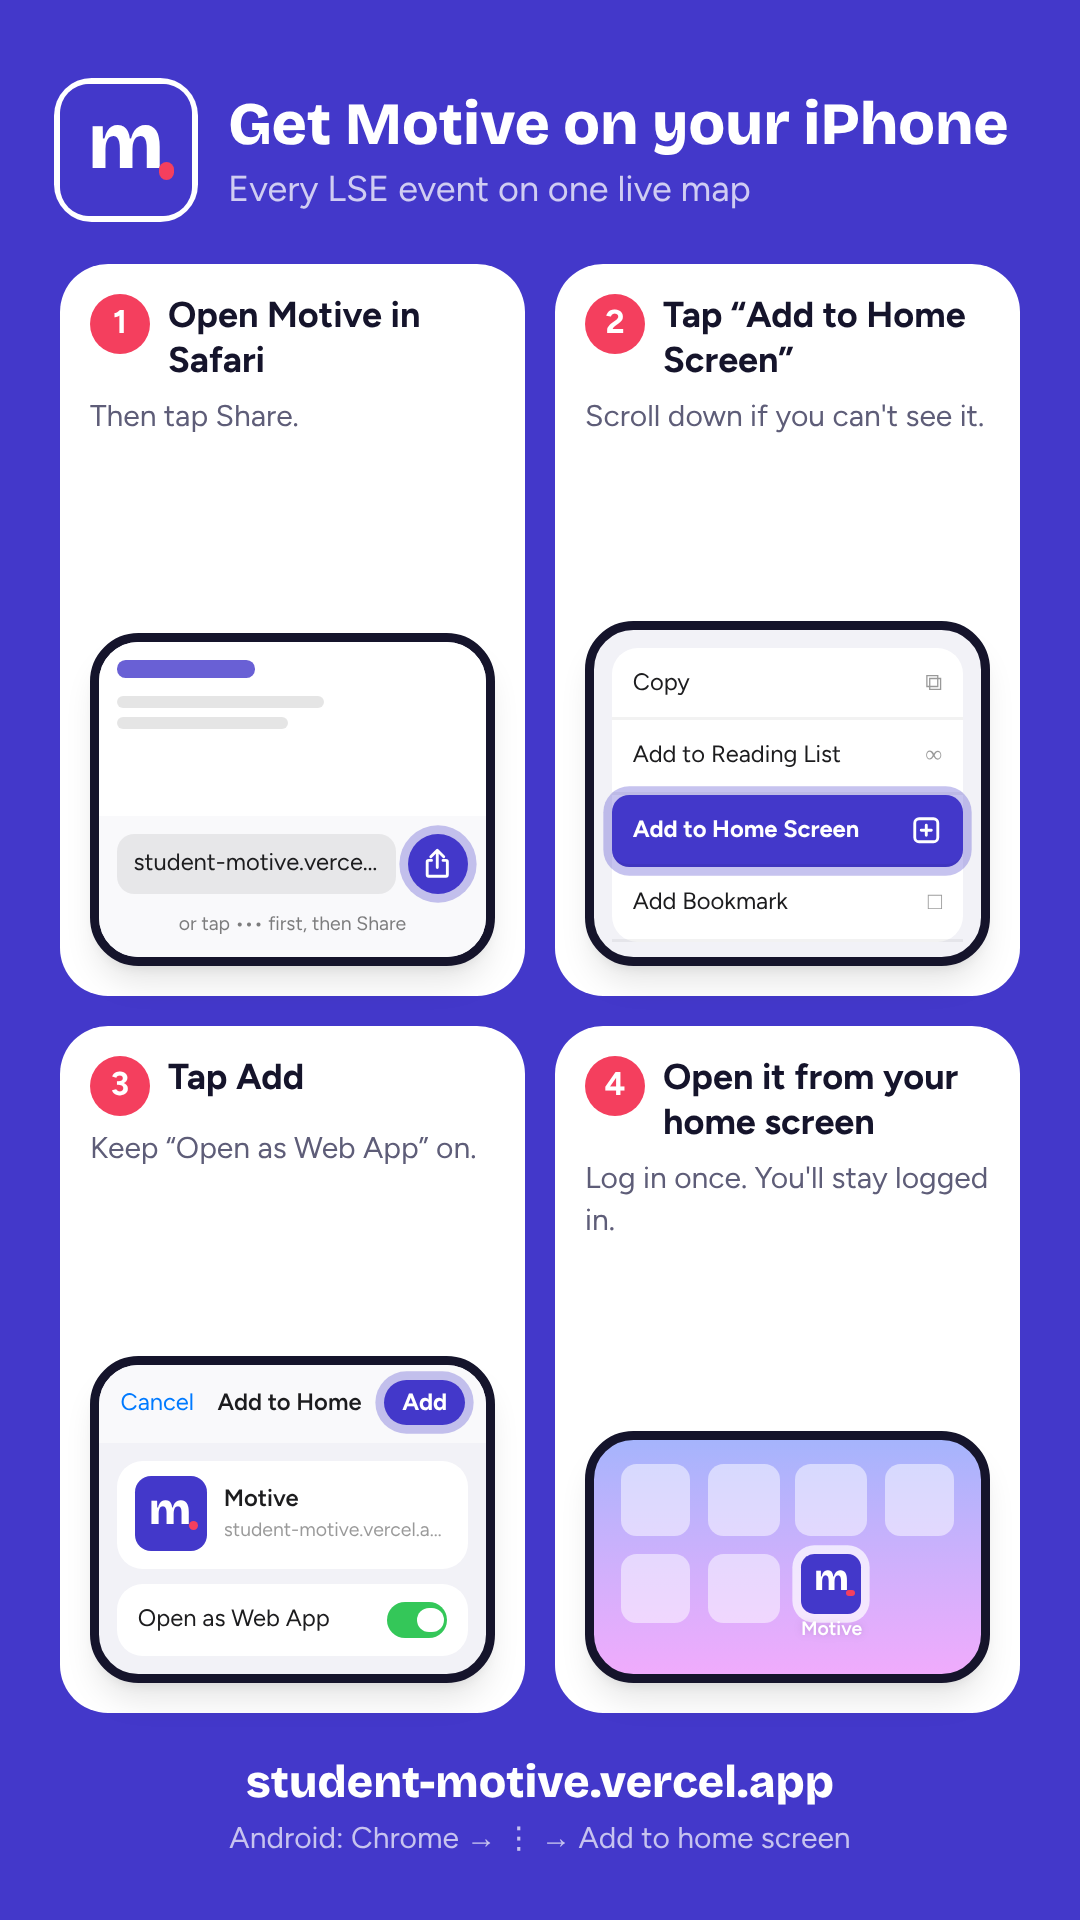
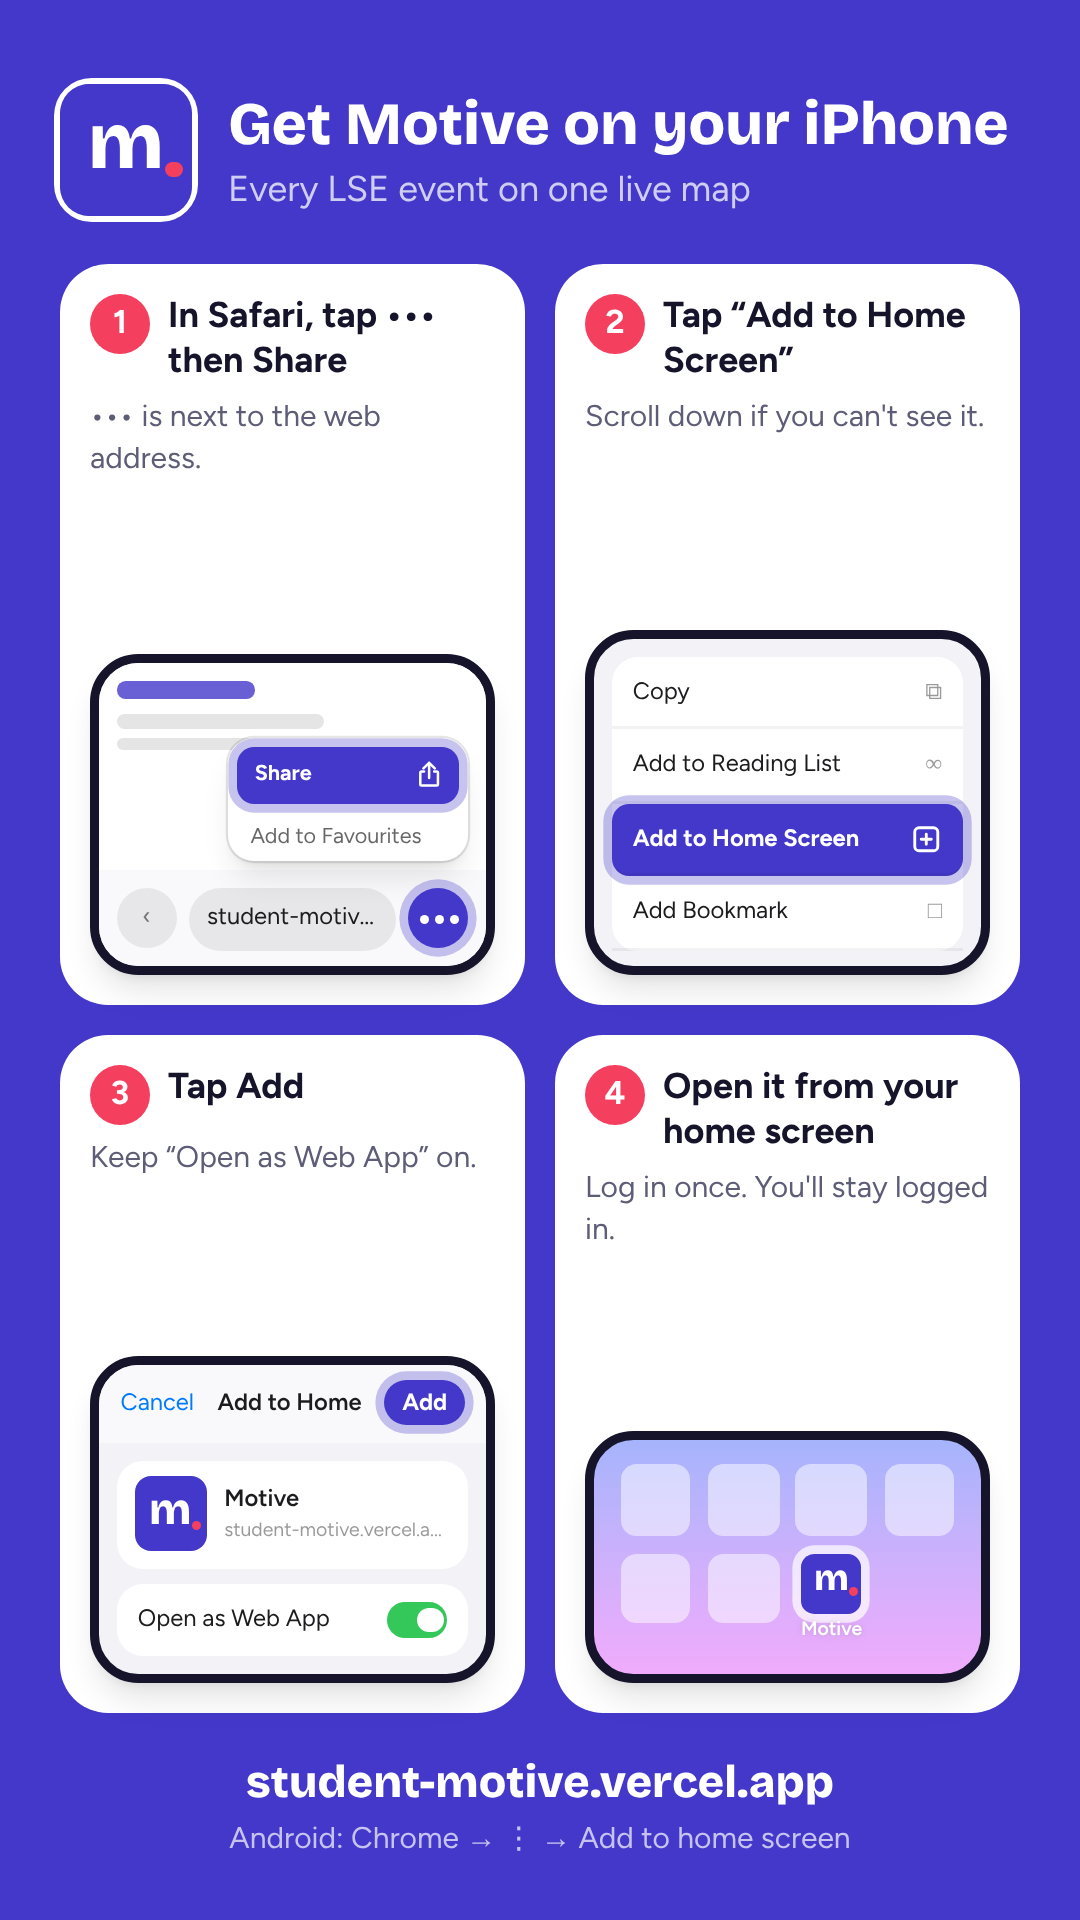
Install steps: on iPhone, tap ••• then Share (Safari's layout since iOS 26)
Claude-Session: https://claude.ai/code/session_01UPPr3xYWKh4pSKrCPw6HSW

diff --git a/web/src/app/install/illustrations.tsx b/web/src/app/install/illustrations.tsx
@@ -62,19 +62,27 @@ export function MotiveTile({ size = 44 }: { size?: number }) {
 
 // ---------- iPhone (Safari) ----------
 
+// Safari since iOS 26: the Share button is inside the ••• menu next to the address.
 export function IphoneSafari() {
   return (
     <Screen>
-      <div className="h-20 bg-white p-2">
+      <div className="relative h-24 bg-white p-2">
         <div className="h-2 w-16 rounded bg-[#4338ca]/80" />
         <div className="mt-2 h-1.5 w-24 rounded bg-black/10" />
         <div className="mt-1 h-1.5 w-20 rounded bg-black/10" />
+        {/* The menu that opens from ••• */}
+        <div className="absolute right-2 bottom-1 w-[62%] overflow-hidden rounded-xl bg-white text-[10px] shadow-lg ring-1 ring-black/10">
+          <div className="m-1 flex items-center justify-between rounded-lg bg-brand px-2 py-1.5 font-bold text-white ring-4 ring-brand/30">
+            Share <ShareIcon className="size-3.5" />
+          </div>
+          <div className="px-2.5 py-1 text-black/60">Add to Favourites</div>
+        </div>
       </div>
       <div className="flex items-center gap-1.5 bg-[#f9f9fb] px-2 py-2">
-        <span className="flex-1 truncate rounded-lg bg-black/[0.07] px-2 py-1.5 text-center">{MOTIVE_URL}</span>
-        <Tap className="size-7"><ShareIcon className="size-4" /></Tap>
+        <span className="grid size-7 place-items-center rounded-full bg-black/[0.07] text-black/50">‹</span>
+        <span className="flex-1 truncate rounded-full bg-black/[0.07] px-2 py-1.5 text-center">{MOTIVE_URL}</span>
+        <Tap className="size-7"><Dots /></Tap>
       </div>
-      <p className="bg-[#f9f9fb] px-2 pb-2 text-center text-[9px] text-black/50">or tap ••• first, then Share</p>
     </Screen>
   );
 }
@@ -195,7 +203,12 @@ export function AndroidInstall() {
 }
 
 export const IPHONE_STEPS = [
-  { title: "Open Motive in Safari", body: "Open the link below in Safari, then tap the Share button.", short: "Then tap Share.", art: <IphoneSafari /> },
+  {
+    title: "In Safari, tap ••• then Share",
+    body: "Open the link below in Safari. Tap ••• at the bottom right, next to the web address, then tap Share. (Older iPhones: just tap the Share button at the bottom.)",
+    short: "••• is next to the web address.",
+    art: <IphoneSafari />,
+  },
   { title: "Tap “Add to Home Screen”", body: "Scroll down the list if you can't see it.", short: "Scroll down if you can't see it.", art: <IphoneShareSheet /> },
   { title: "Tap Add", body: "Keep “Open as Web App” switched on.", short: "Keep “Open as Web App” on.", art: <IphoneAddDialog /> },
   { title: "Open it from your home screen", body: "Log in once with your email code. You'll stay logged in.", short: "Log in once. You'll stay logged in.", art: <HomeScreen /> },

diff --git a/web/src/app/install/page.tsx b/web/src/app/install/page.tsx
@@ -4,7 +4,7 @@ import { InstallGuide } from "./install-guide";
 
 export const metadata: Metadata = {
   title: "Get the app",
-  description: "Put Motive on your phone's home screen in four taps. Works on iPhone and Android.",
+  description: "Put Motive on your phone's home screen in a few taps. Works on iPhone and Android.",
 };
 
 export default function InstallPage() {
@@ -14,7 +14,7 @@ export default function InstallPage() {
         <MotiveTile size={56} />
         <div>
           <h1 className="font-display text-3xl font-extrabold tracking-tight sm:text-4xl">Get Motive on your phone</h1>
-          <p className="mt-1 text-muted">Four taps. It opens full screen with its own icon, just like an app. Free, and no App Store needed.</p>
+          <p className="mt-1 text-muted">A few taps. It opens full screen with its own icon, just like an app. Free, and no App Store needed.</p>
         </div>
       </div>
 

diff --git a/web/src/app/page.tsx b/web/src/app/page.tsx
@@ -66,7 +66,7 @@ export default function Home() {
       <section className="card mb-8 flex flex-col items-start gap-4 bg-brand-soft sm:flex-row sm:items-center sm:justify-between">
         <div>
           <h2 className="font-display text-2xl font-extrabold">Students: put Motive on your phone</h2>
-          <p className="text-muted">Add it to your home screen in four taps. Works on iPhone and Android.</p>
+          <p className="text-muted">Add it to your home screen in a few taps. Works on iPhone and Android.</p>
         </div>
         <Link href="/install" className="btn px-5 py-3 text-base">
           Show me how
